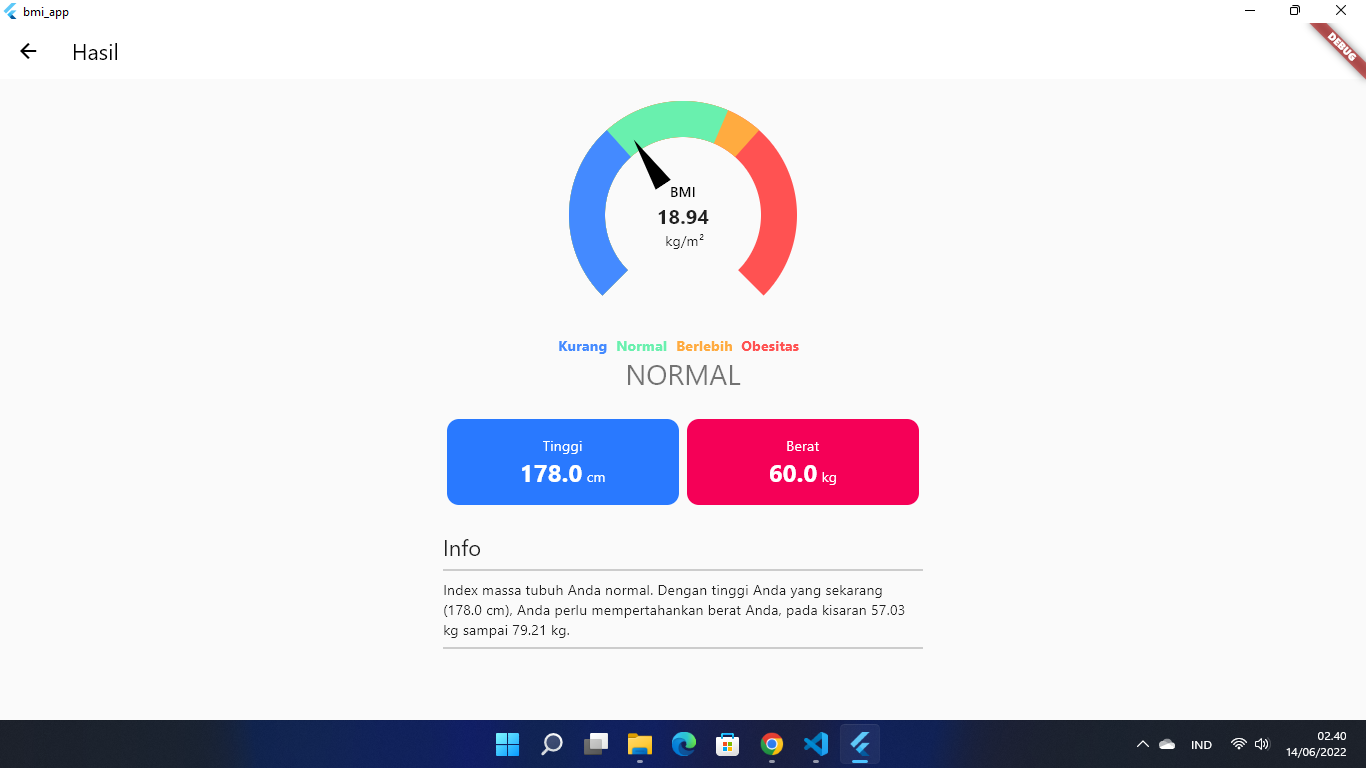
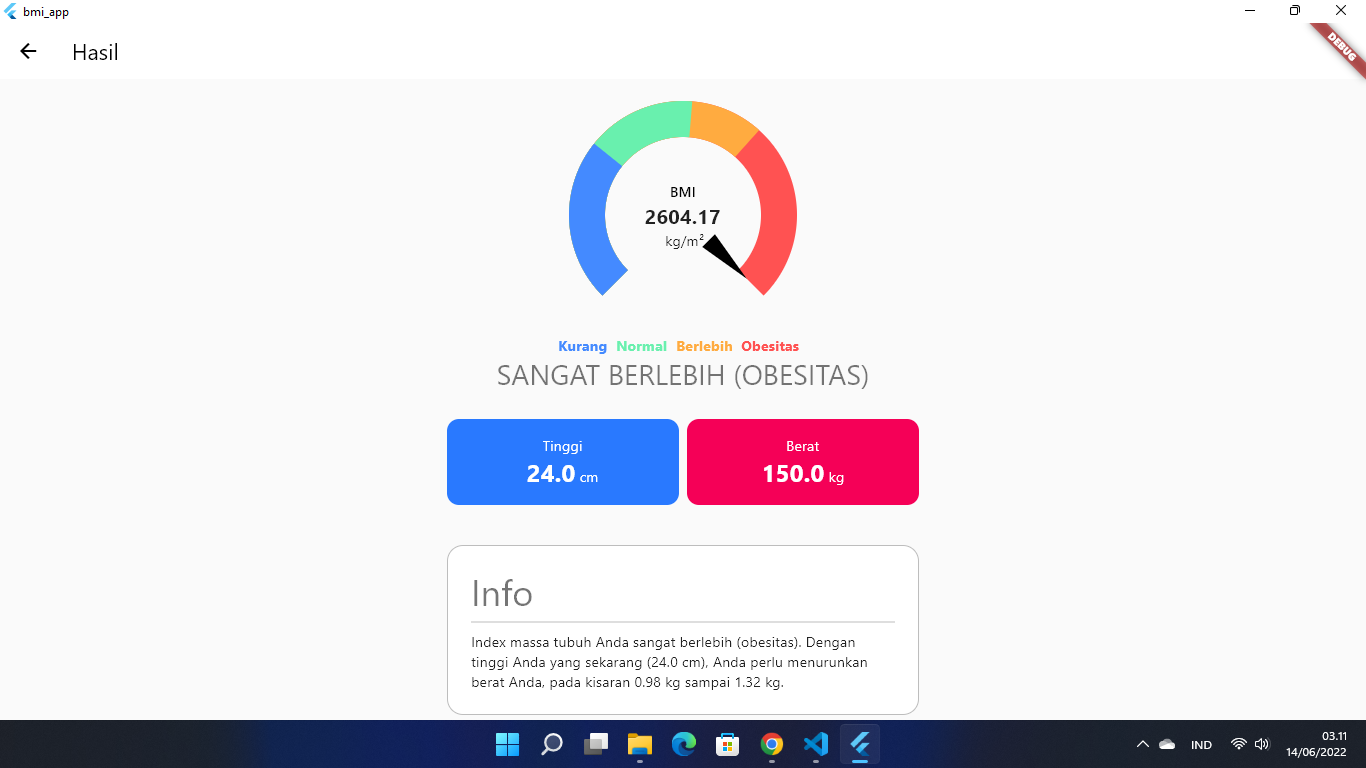
Add card to information section.

diff --git a/lib/ui/page/result_page.dart b/lib/ui/page/result_page.dart
@@ -49,16 +49,31 @@ class ResultPage extends StatelessWidget {
                     ],
                   ),
                   const SizedBox(height: 24.0),
-                  Text(
-                    "Info",
-                    style: Theme.of(context).textTheme.titleLarge,
+                  const SizedBox(height: 8.0),
+                  Card(
+                    elevation: 0,
+                    shape: const RoundedRectangleBorder(
+                      side: BorderSide(color: Colors.black26),
+                      borderRadius: BorderRadius.all(Radius.circular(16)),
+                    ),
+                    child: Padding(
+                      padding: const EdgeInsets.all(24.0),
+                      child: Column(
+                        crossAxisAlignment: CrossAxisAlignment.start,
+                        children: [
+                          Text(
+                            "Info",
+                            style: Theme.of(context).textTheme.displaySmall,
+                          ),
+                          const SizedBox(height: 8.0),
+                          const Divider(height: 2.0, color: Colors.black26),
+                          const SizedBox(height: 8.0),
+                          Text(bmi.message),
+                        ],
+                      ),
+                    ),
                   ),
                   const SizedBox(height: 8.0),
-                  const Divider(height: 2.0, color: Colors.grey),
-                  const SizedBox(height: 8.0),
-                  Text(bmi.message),
-                  const SizedBox(height: 8.0),
-                  const Divider(height: 2.0, color: Colors.grey),
                 ],
               ),
             ),
